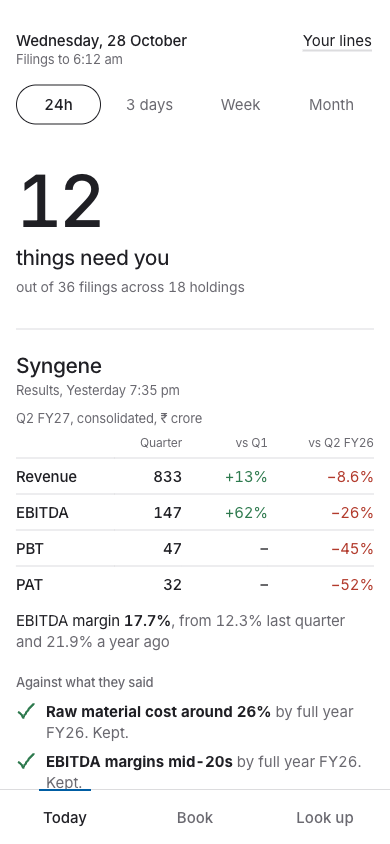
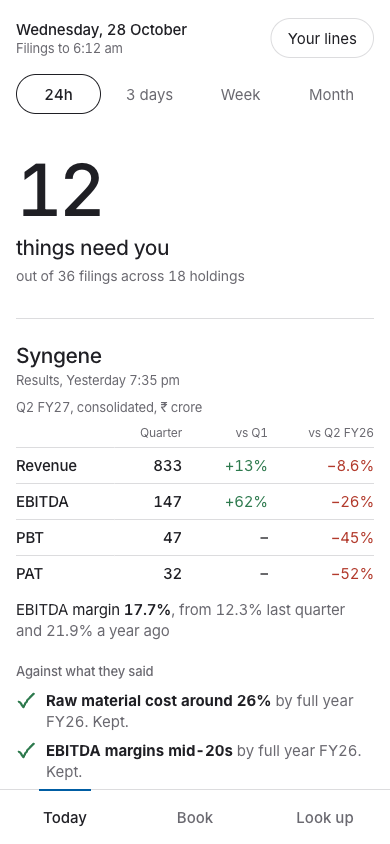
Update README with pill design

diff --git a/docs/PROGRESS.md b/docs/PROGRESS.md
@@ -1,6 +1,6 @@
 # Progress
 
-Next: design upgrade critic round (designer, ENAM evaluator, muted investor) on the new screenshots in docs/img vs shots/ref-bdc-390*.png, then fix. Background: `pgrep -f regrade.sh` sleeps to 12:40 IST 29 Oct, then regrades the 8 flash-lite companies (log data/regrade2.log). When it finishes: compare verdicts, rerun evals/sample_grades.py and update evals/grades_review.md, redeploy, recheck screenshots. If the job died, restart: `nohup zsh pipeline/regrade.sh > data/regrade2.log 2>&1 &`.
+Next: keep polishing from the 'Never sit idle' list in the new design language (check each change against design/inspiration.md). Background: `pgrep -f regrade.sh` sleeps to 12:40 IST 29 Oct, then regrades the 8 flash-lite companies (log data/regrade2.log). When it finishes: compare verdicts, rerun evals/sample_grades.py and update evals/grades_review.md, redeploy, recheck screenshots. If the job died, restart: `nohup zsh pipeline/regrade.sh > data/regrade2.log 2>&1 &`.
 
 - [x] Brief analysis, company notes, ideation (docs/)
 - [x] Engine: finn/ (sources, classify, triage, results, people, ledger, research)
@@ -51,3 +51,4 @@ Next: design upgrade critic round (designer, ENAM evaluator, muted investor) on 
 - ENAM palette sampled from enam.com: white, black, grey #6A6970, ENAM blue #005DA3, #D2D2D2 rules. DESIGN.md now has the palette with roles and contrast, and the new type
 - Restyle (CSS + fonts, no feature changes): white ground, ENAM blue only on the primary button, active tab and newest volume bar; Today cards are hairline sections, not tinted boxes; 72px headline count; window choice is pills; Look up input is a single underline with a blue pill button; PT Serif for the sentences FINN says (story lines, the read, verdicts, notes); one reveal (fade and rise 12px, 900 ms, first three staggered) via one observer in main.tsx; reduced motion shows everything in place. Icon is a white tick on ENAM blue
 - Tested at 390x844 (Today, Book, Company, Look up, Your lines); deployed and checked live 28 Oct ~16:22 IST; README screenshots retaken from the live link; DECISIONS design paragraph updated
+- Critic round on the new screenshots (inline): avoid-ai-design detect.mjs 0 findings. Designer: 'Your lines' now a hairline pill like the reference's single header control (two dark pills competed); ENAM evaluator: blue stays rare (button, active tab, icon), fine; muted investor: the 72px count reads first. A direct link to a holding lights Book (was Today). Deployed and checked live 28 Oct ~16:25 IST; README Today shot retaken
